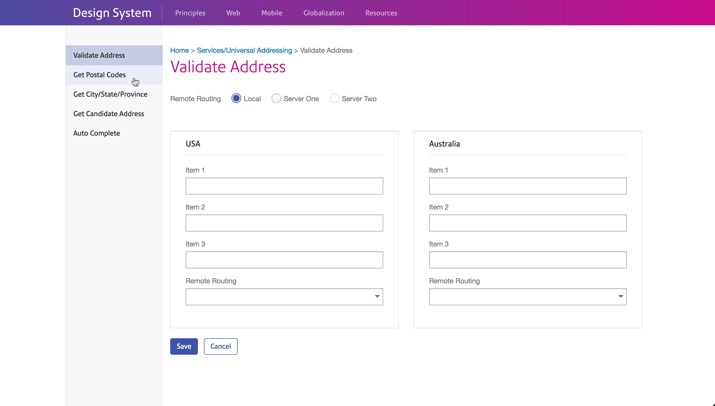
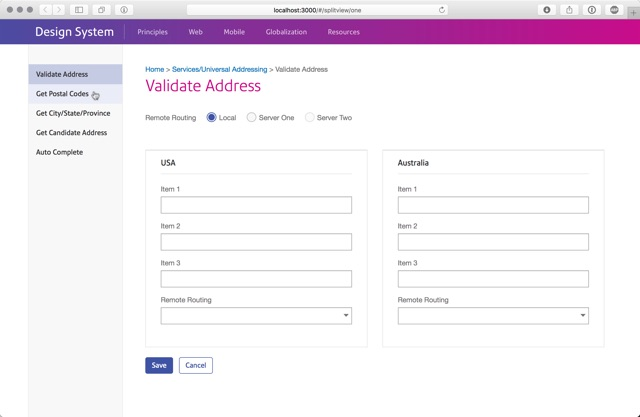
more

diff --git a/app/modules/splitview/templates/splitview-four.html b/app/modules/splitview/templates/splitview-four.html
@@ -1,22 +1,34 @@
 <div class="container">
   <div class="row two-col-wrapper">
-    <div class="col-md-2 leftnav leftnav-gray">
-      <div class="list-group">
+    <div class="col-md-2 leftnav leftnav-white">
+
+    <div class="list-group-section">
+        <h3>Section One</h3>
+        <div class="list-group">
         <a class="list-group-item active" href="">Validate Address</a>
         <a class="list-group-item" href="">Get Postal Codes</a>
         <a class="list-group-item" href="">Get City/State/Province</a>
-        <a class="list-group-item" href="">Get Candidate Address</a>
-        <a class="list-group-item" href="">Auto Complete</a>
+
       </div>
+    </div>
+
+    <ul class="nav nav-list">
+      <li ng-repeat="n in splitview.sidebar"><label class="tree-toggle nav-header">{{n.label}}</label>
+        <ul class="nav nav-list tree">
+<li>doppppp</li>
+        </ul>
+      </li>
+    </ul>
+
+
+
     </div>
     <div class="col-md-10 main-content">
       <div class="row">
         <div class="col-md-12">
           <div class="breadcrumb">
-            <a href="">Home</a>
-            &gt;
-            <a href="">Services/Universal Addressing</a>
-            &gt; Validate Address</div>
+            <a href="">Home</a>&nbsp;&gt;&nbsp;<a href="">Services/Universal Addressing</a>&nbsp;&gt;&nbsp;Validate Address</div>
+
           <h1>Validate Address</h1>
 
           <div class="enhanced-inline">

diff --git a/app/assets/css/design_system.css b/app/assets/css/design_system.css
@@ -4702,7 +4702,7 @@ th.centered {
 .splitview .leftnav {
   padding: 90px 0 0;
   min-height: 100%;
-  margin: 0 60px 0 0; }
+  margin: 0 30px 0 0; }
   .splitview .leftnav-gray {
     background-color: #f8f8f8;
     border-left: 1px solid #e8e8e8;
@@ -4718,20 +4718,16 @@ th.centered {
       background-color: #eaedf8; }
     .splitview .leftnav a:active, .splitview .leftnav a.active {
       background-color: #c5cbe3; }
-.splitview .sectionhead {
-  border-bottom: 1px solid #e1e1e1;
-  display: -webkit-flex;
-  display: -ms-flexbox;
-  display: flex;
-  -webkit-align-items: center;
-      -ms-flex-align: center;
-          align-items: center;
-  -webkit-justify-content: space-between;
-      -ms-flex-pack: justify;
-          justify-content: space-between;
-  padding-bottom: 10px; }
-  .splitview .sectionhead h2 {
-    border-bottom: 1px solid #e1e1e1; }
+  .splitview .leftnav .list-group-section:not(:first-child) {
+    border-top: 1px solid #e8e8e8; }
+  .splitview .leftnav .list-group-section:last-child {
+    border-bottom: 1px solid #e8e8e8; }
+  .splitview .leftnav .list-group-section h3 {
+    font-size: 16px;
+    padding: 10px 15px;
+    margin-bottom: 0; }
+  .splitview .leftnav .list-group-section .list-group {
+    margin-bottom: 10px; }
 
 .framed {
   border: 1px solid #e1e1e1; }

diff --git a/app/modules/splitview/templates/splitview-three.html b/app/modules/splitview/templates/splitview-three.html
@@ -1,14 +1,33 @@
 <div class="container">
-
   <div class="row two-col-wrapper">
     <div class="col-md-2 leftnav leftnav-white">
-      <div class="list-group">
+
+    <div class="list-group-section">
+        <h3>Section One</h3>
+        <div class="list-group">
         <a class="list-group-item active" href="">Validate Address</a>
         <a class="list-group-item" href="">Get Postal Codes</a>
         <a class="list-group-item" href="">Get City/State/Province</a>
+
+      </div>
+    </div>
+
+    <div class="list-group-section">
+        <h3>Section Two</h3>
+        <div class="list-group">
         <a class="list-group-item" href="">Get Candidate Address</a>
         <a class="list-group-item" href="">Auto Complete</a>
       </div>
+    </div>
+
+    <div class="list-group-section">
+        <h3>Section Three</h3>
+        <div class="list-group">
+        <a class="list-group-item" href="">Open the Pod Bay Doors</a>
+        <a class="list-group-item" href="">Ship Parcel</a>
+      </div>
+    </div>
+
     </div>
     <div class="col-md-10 main-content">
       <div class="row">

diff --git a/app/modules/patterns/templates/splitview.html b/app/modules/patterns/templates/splitview.html
@@ -61,11 +61,21 @@
 
   <div class="row ">
     <div class="col-md-6">
-      <!-- <p>This option supports legacy applications, for which users may be using a non-email username.</p> -->
-      <a href="" ui-sref="splitview-two" target="_blank"><img class="img-responsive framed"  src="modules/patterns/assets/images/splitview-one.jpg" /></a>
+      <a href="" ui-sref="splitview-two" target="_blank"><img class="img-responsive framed"  src="modules/patterns/assets/images/splitview-two.jpg" /></a>
     </div>
   </div>
 
+  <div class="row">
+    <div class="col-md-12">
+      <h2 class="doc-sectionhead">Section Heads</h2>
+    </div>
+  </div>
+
+  <div class="row ">
+    <div class="col-md-6">
+      <a href="" ui-sref="splitview-three" target="_blank"><img class="img-responsive framed"  src="modules/patterns/assets/images/splitview-three.jpg" /></a>
+    </div>
+  </div>
 
 
 

diff --git a/app/modules/splitview/assets/sass/_splitview.scss b/app/modules/splitview/assets/sass/_splitview.scss
@@ -16,7 +16,7 @@
   .leftnav {
     padding: 90px 0 0;
     min-height: 100%;
-    margin:  0 60px 0 0;
+    margin:  0 30px 0 0;
 
     &-gray {
       background-color: $pb-bg2;
@@ -39,19 +39,32 @@
         background-color: $bg-active;
       }
     }
-  }
 
-  .sectionhead {
-    border-bottom: 1px solid $pb-light-gray;
-    display: flex;
-    align-items: center;
-    justify-content: space-between;
-    padding-bottom: 10px;
-
-    h2 {
-      border-bottom: 1px solid $pb-light-gray;
+    .list-group-section {
+      &:not(:first-child) {
+        border-top: 1px solid #e8e8e8;
+      }
+      &:last-child {
+        border-bottom: 1px solid #e8e8e8;
+      }
+      h3 {
+        font-size: 16px;
+        padding: 10px 15px;
+        margin-bottom: 0;
+      }
+      .list-group {
+        margin-bottom: 10px;
+      }
     }
+
+
+
+
   }
+
+
+
+
 }
 
 .framed {

diff --git a/app/modules/splitview/templates/splitview-two.html b/app/modules/splitview/templates/splitview-two.html
@@ -1,7 +1,6 @@
 <div class="container">
-
-  <div class="row two-col-wrapper">
-    <div class="col-md-2 leftnav leftnav-white">
+    <div class="row two-col-wrapper">
+      <div class="col-md-2 leftnav leftnav-white">
       <div class="list-group">
         <a class="list-group-item active" href="">Validate Address</a>
         <a class="list-group-item" href="">Get Postal Codes</a>
@@ -10,9 +9,10 @@
         <a class="list-group-item" href="">Auto Complete</a>
       </div>
     </div>
-    <div class="col-md-10 main-content">
+    <div class="main-content col-md-10">
       <div class="row">
         <div class="col-md-12">
+          <hr>
           <div class="breadcrumb">
             <a href="">Home</a>&nbsp;&gt;&nbsp;<a href="">Services/Universal Addressing</a>&nbsp;&gt;&nbsp;Validate Address</div>
 
